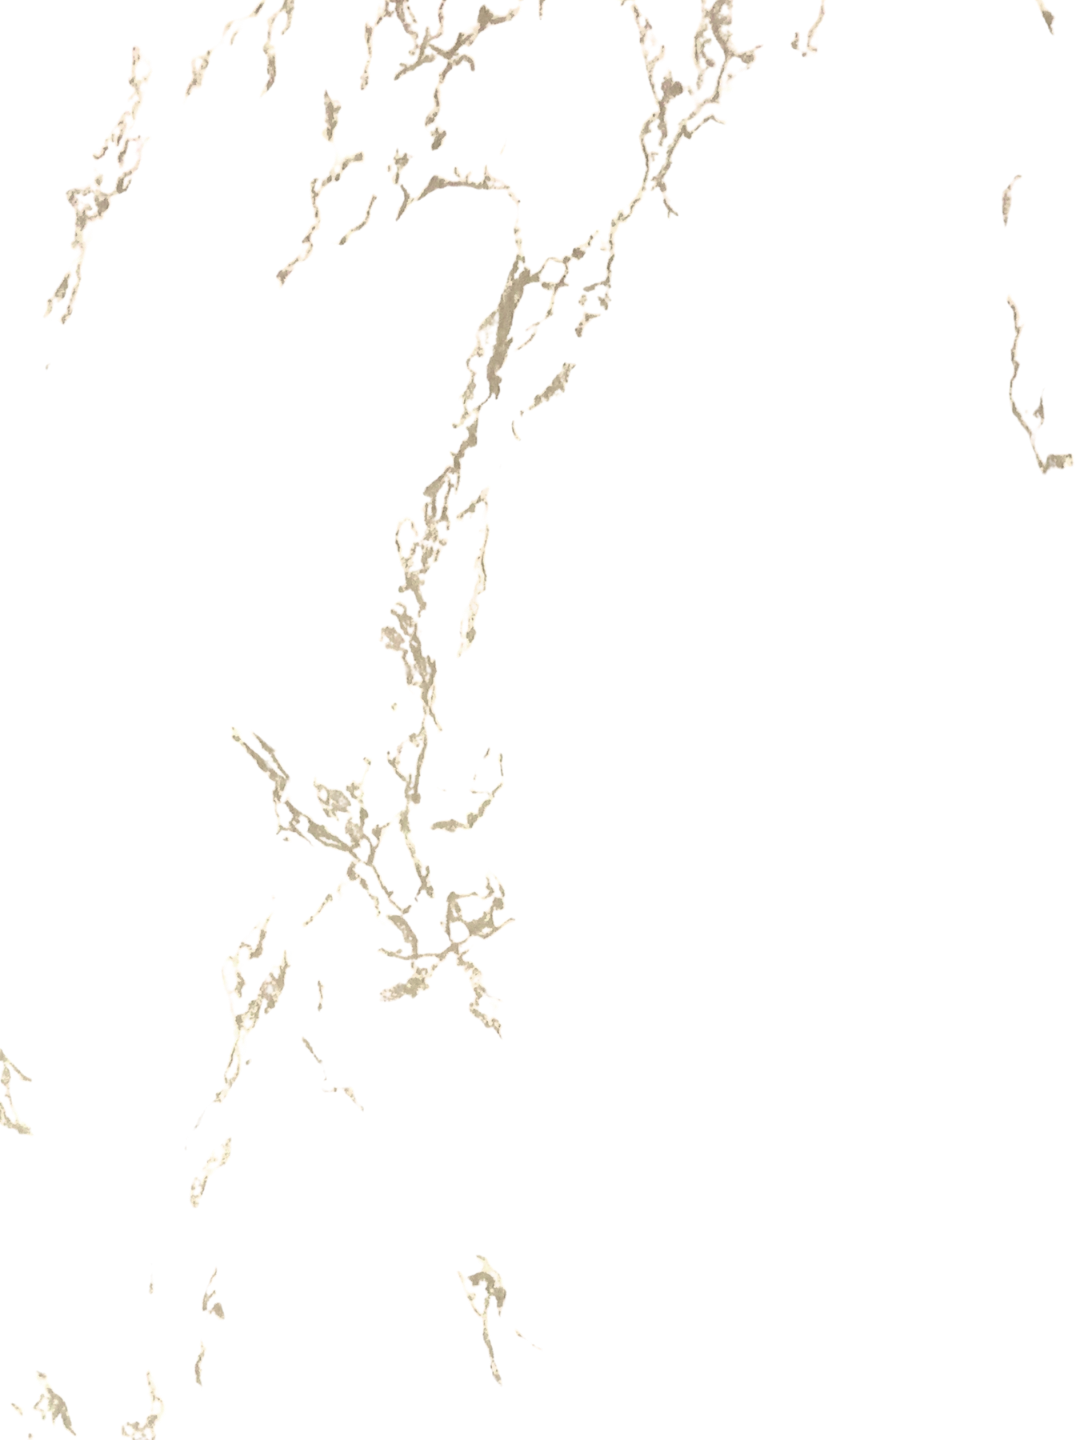
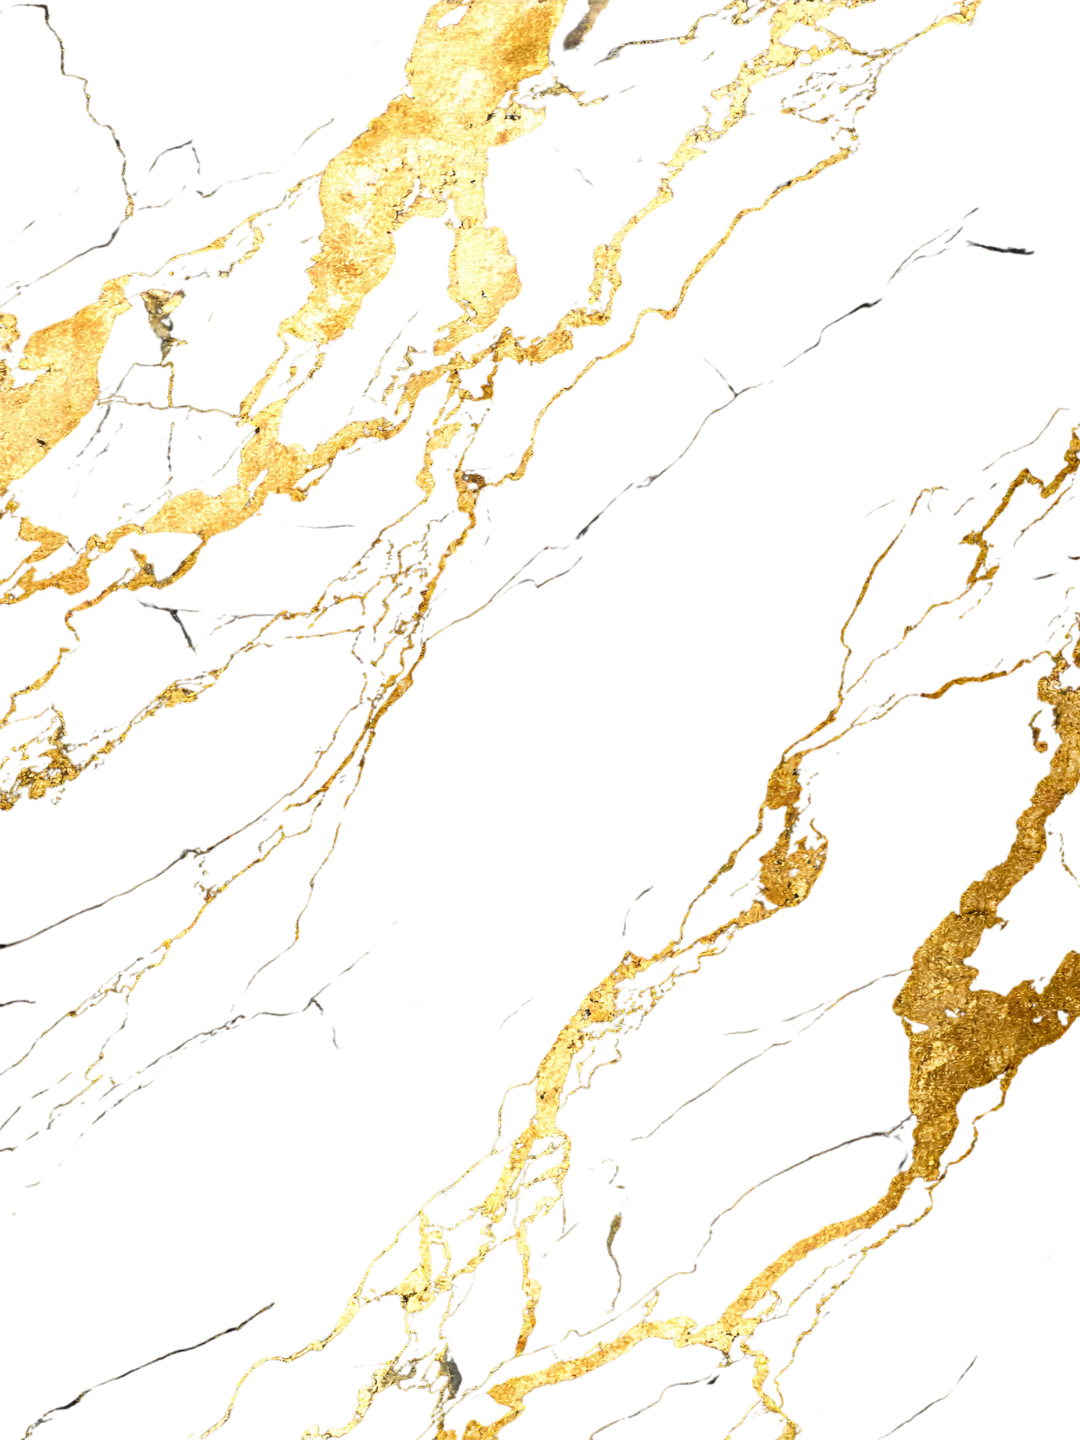
header(menu mobile): ajustes finos para elevar o nível

diff --git a/src/sass/sections/_header.scss b/src/sass/sections/_header.scss
@@ -229,7 +229,7 @@ $menu-stagger-step:      0.15s; // extra delay for each following item
         background-size: cover;
         background-position: center;
 
-        opacity: 1; // Suave e elegante
+        opacity: 0.5; // Suave e elegante
         mix-blend-mode: overlay;
         pointer-events: none;
       }
